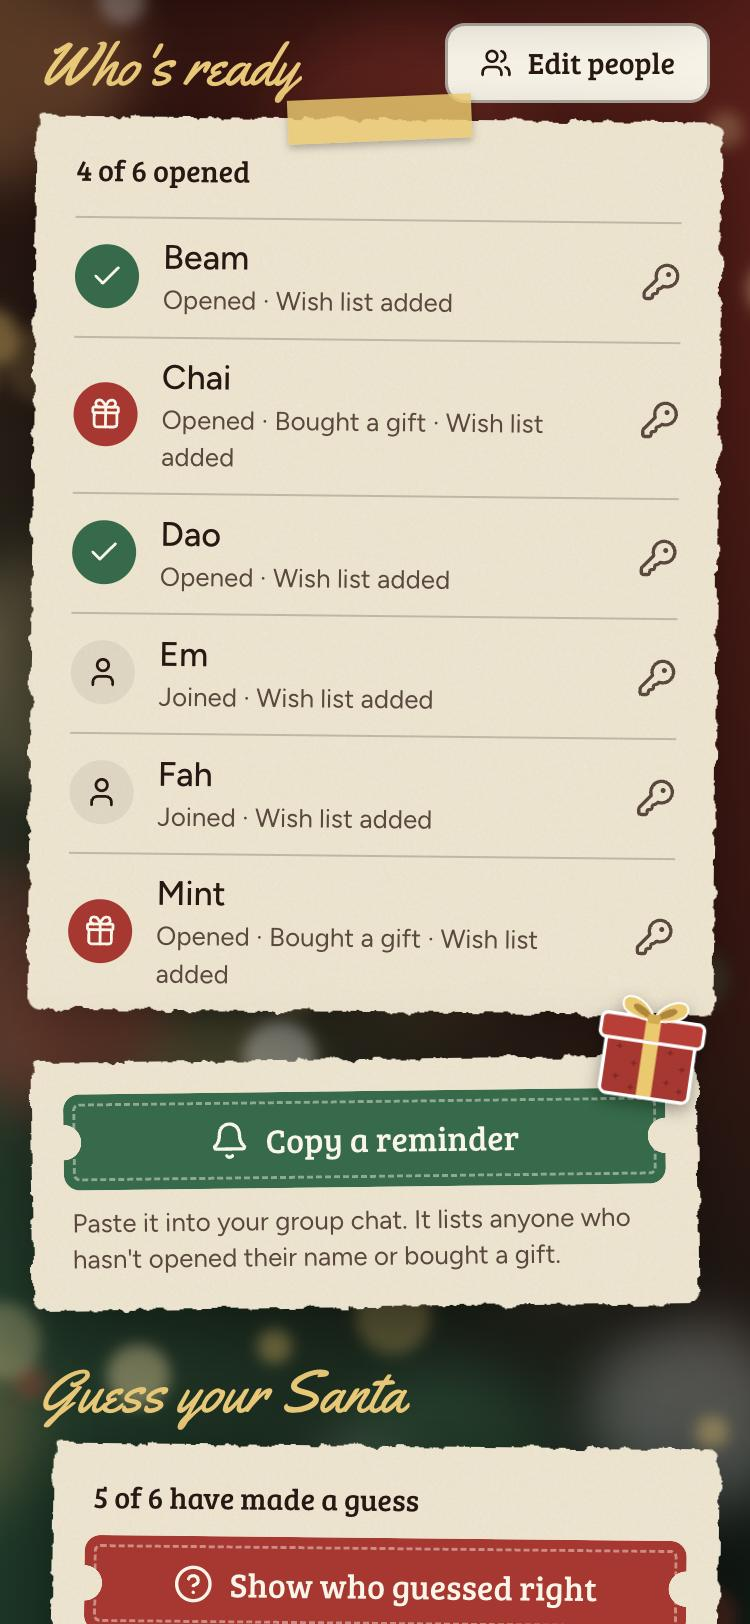
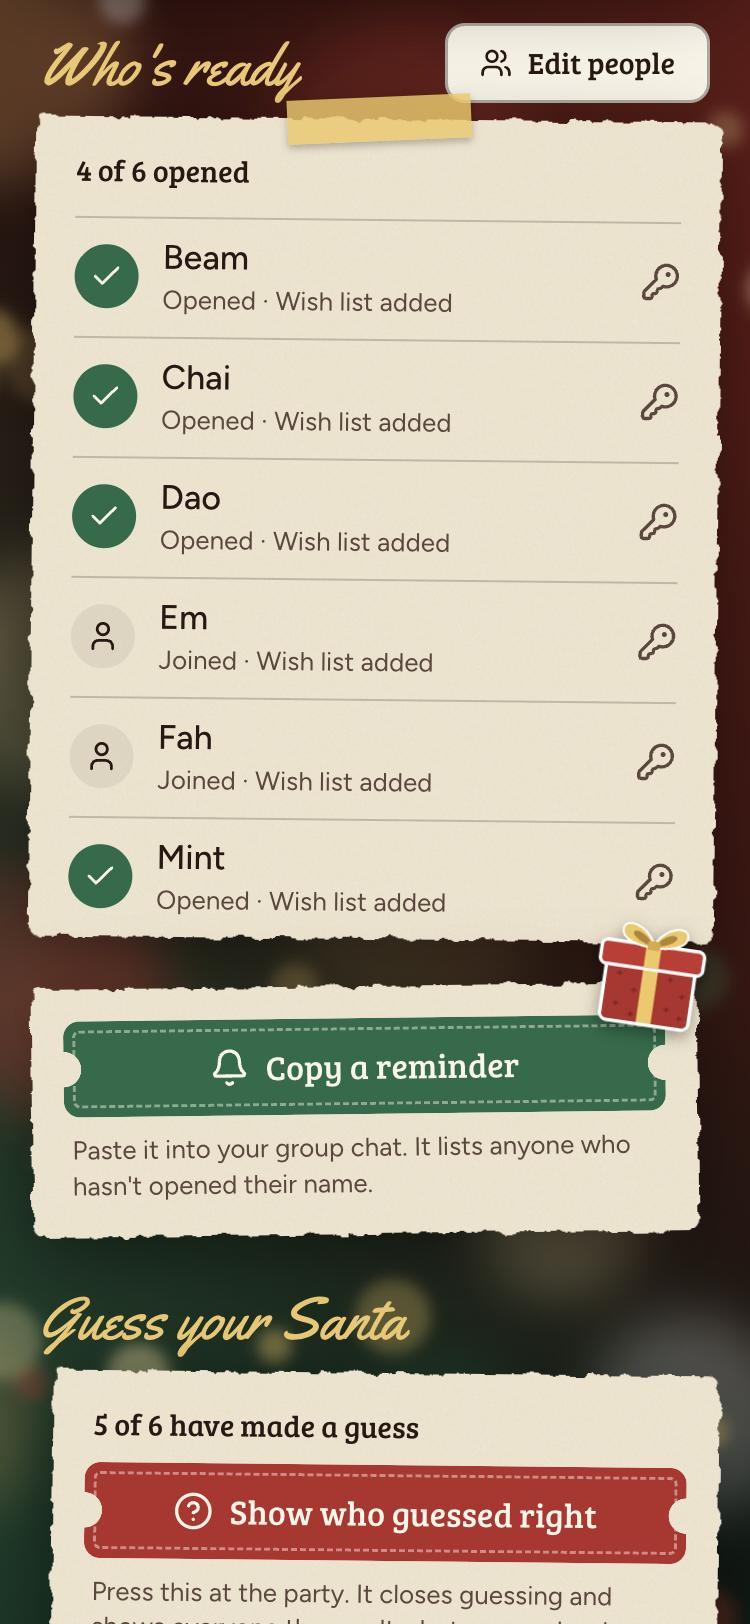
Update README pictures and shorten the exclusion labels
The dropdowns on Edit people now read Person 1 and Person 2, so they no longer
cut off on phones. Pictures show the current site with a demo group.

diff --git a/src/lib/i18n.tsx b/src/lib/i18n.tsx
@@ -46,8 +46,8 @@ const en = {
   needThree: "You need at least 3 people to draw names.",
   threeWarn: "With exactly 3 people, your name tells you the whole circle. 4 or more keeps it a real secret.",
   noExclusions: "Couples or housemates can be kept apart. This works both ways.",
-  personA: "Choose a person",
-  personB: "and a person",
+  personA: "Person 1",
+  personB: "Person 2",
   drawNames: "Draw names",
   drawing: "Drawing…",
 

diff --git a/README.md b/README.md
@@ -12,7 +12,11 @@ Run a gift exchange from one link. Create a group, share the link, and everyone 
   <img src="docs/screenshots/join.jpg" alt="Joining a group with a name and PIN" width="240">
 </p>
 <p>
+  <img src="docs/screenshots/invite.jpg" alt="Organiser page with the invite link" width="240">
   <img src="docs/screenshots/lobby.jpg" alt="Organiser's list of who has joined, with the Draw names button" width="240">
+  <img src="docs/screenshots/edit-people.jpg" alt="Edit people sheet with names and exclusions" width="240">
+</p>
+<p>
   <img src="docs/screenshots/unwrap.jpg" alt="A wrapped gift waiting to be tapped" width="240">
   <img src="docs/screenshots/reveal.jpg" alt="The name you drew, on a gift tag" width="240">
 </p>
